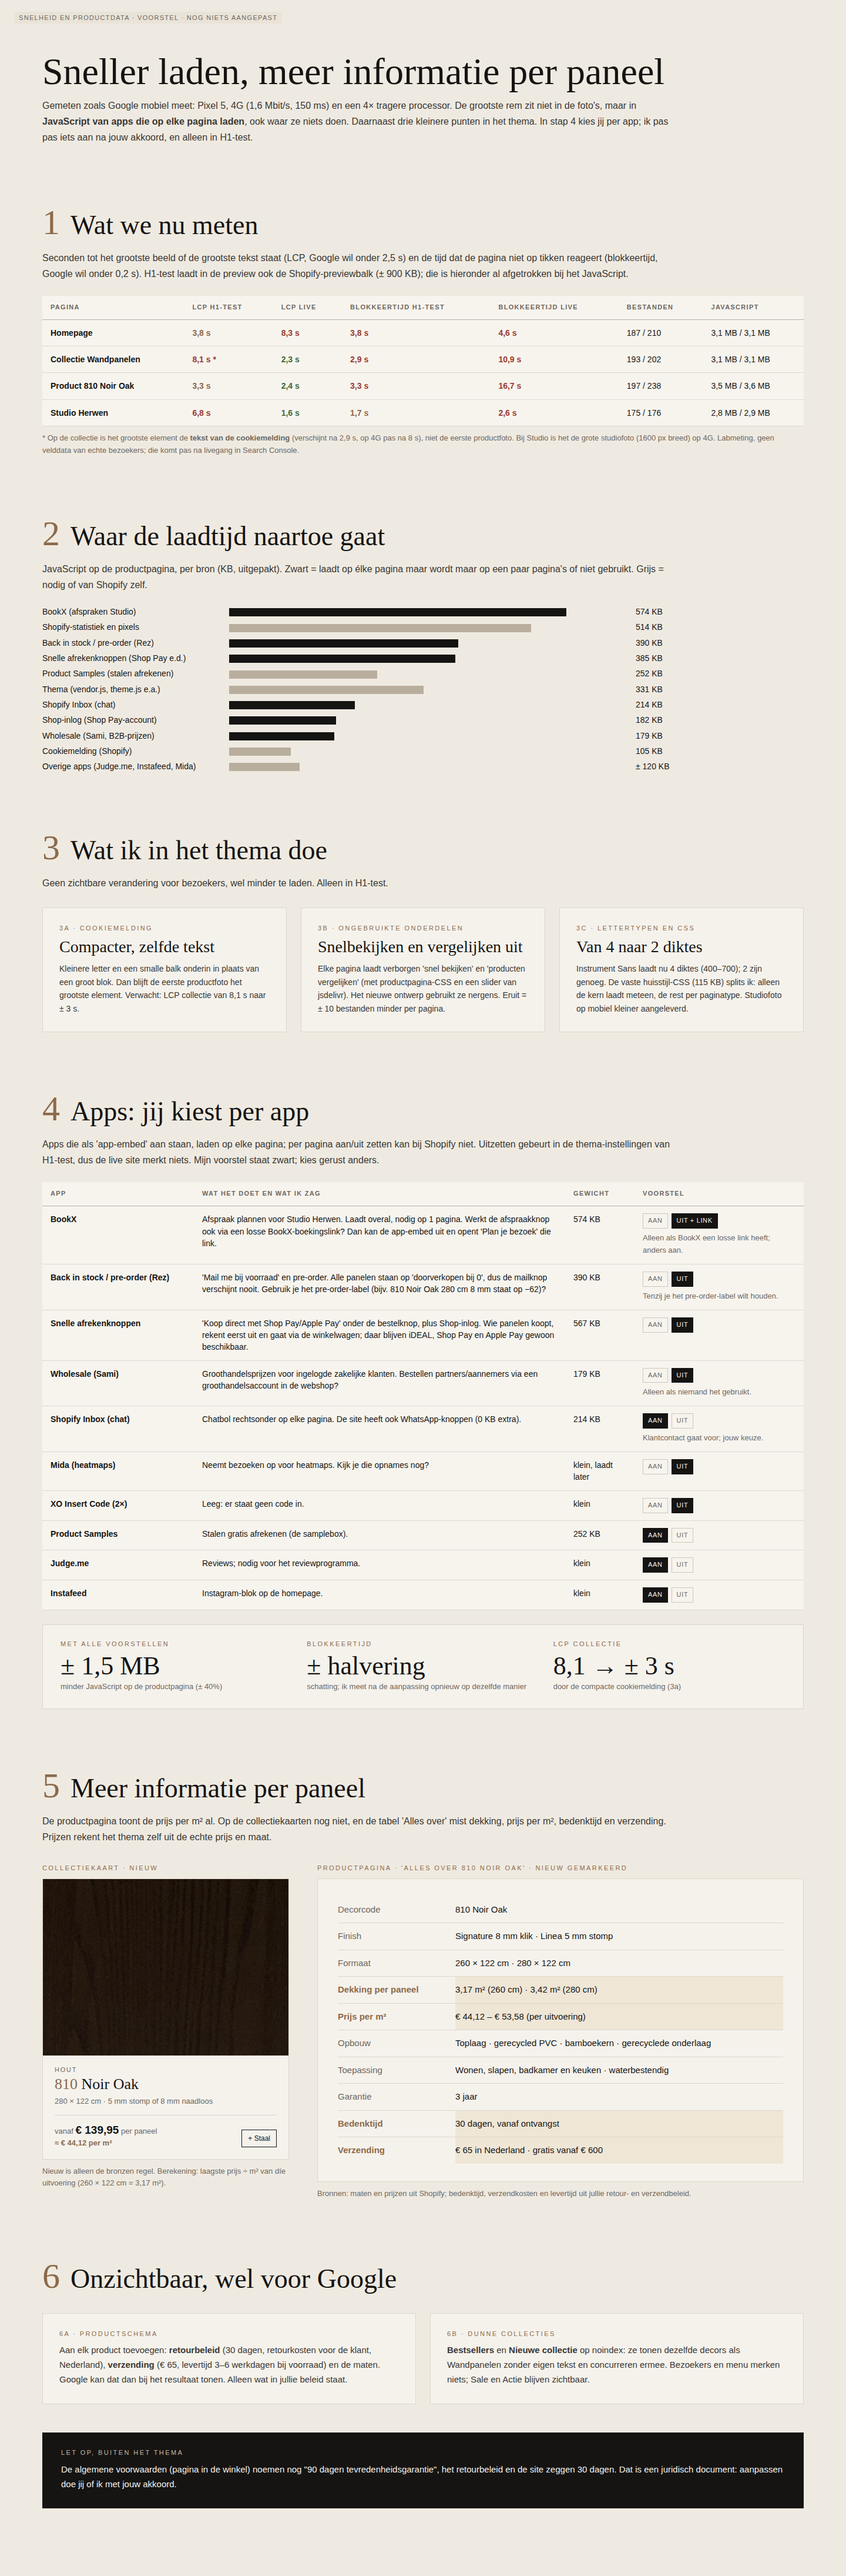
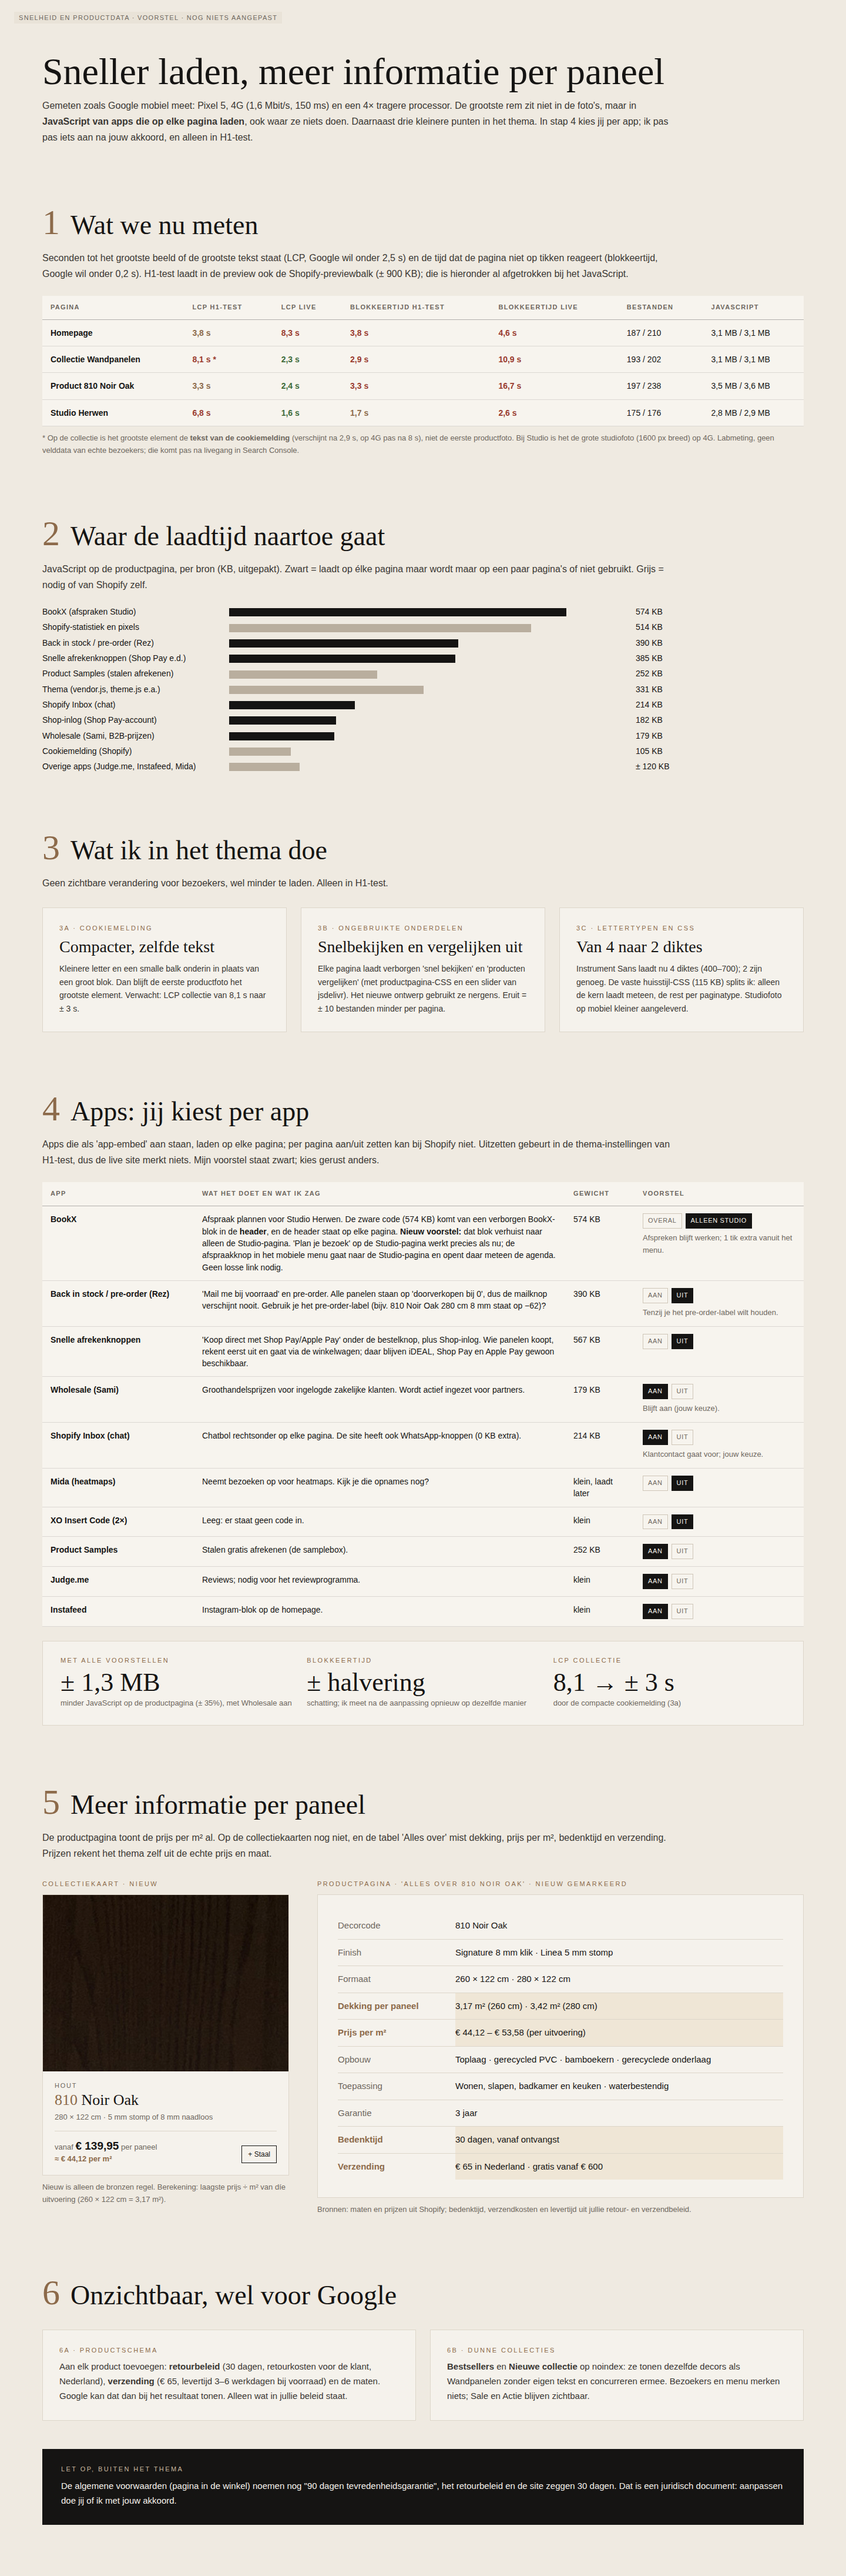
Artboard Snelheid: BookX alleen op Studio-pagina, Wholesale blijft aan
Claude-Session: https://claude.ai/code/session_01Tr9HDAqx5rbsuHBhnEqEEG

diff --git a/docs/ontwerp-puredeco-finish/Snelheid.dc.html b/docs/ontwerp-puredeco-finish/Snelheid.dc.html
@@ -86,10 +86,10 @@ table.t{width:100%;border-collapse:collapse;font-size:14px;line-height:1.45;back
 <table class="t" style="margin-top:24px">
 <thead><tr><th style="width:230px">App</th><th>Wat het doet en wat ik zag</th><th style="width:90px">Gewicht</th><th style="width:260px">Voorstel</th></tr></thead>
 <tbody>
-<tr><th>BookX</th><td>Afspraak plannen voor Studio Herwen. Laadt overal, nodig op 1 pagina. Werkt de afspraakknop ook via een losse BookX-boekingslink? Dan kan de app-embed uit en opent 'Plan je bezoek' die link.</td><td>574 KB</td><td><span class="choice"><span>Aan</span><span class="on">Uit + link</span></span><div class="note" style="margin-top:6px">Alleen als BookX een losse link heeft; anders aan.</div></td></tr>
+<tr><th>BookX</th><td>Afspraak plannen voor Studio Herwen. De zware code (574 KB) komt van een verborgen BookX-blok in de <b>header</b>, en de header staat op elke pagina. <b>Nieuw voorstel:</b> dat blok verhuist naar alleen de Studio-pagina. 'Plan je bezoek' op de Studio-pagina werkt precies als nu; de afspraakknop in het mobiele menu gaat naar de Studio-pagina en opent daar meteen de agenda. Geen losse link nodig.</td><td>574 KB</td><td><span class="choice"><span>Overal</span><span class="on">Alleen Studio</span></span><div class="note" style="margin-top:6px">Afspreken blijft werken; 1 tik extra vanuit het menu.</div></td></tr>
 <tr><th>Back in stock / pre-order (Rez)</th><td>'Mail me bij voorraad' en pre-order. Alle panelen staan op 'doorverkopen bij 0', dus de mailknop verschijnt nooit. Gebruik je het pre-order-label (bijv. 810 Noir Oak 280 cm 8 mm staat op −62)?</td><td>390 KB</td><td><span class="choice"><span>Aan</span><span class="on">Uit</span></span><div class="note" style="margin-top:6px">Tenzij je het pre-order-label wilt houden.</div></td></tr>
 <tr><th>Snelle afrekenknoppen</th><td>'Koop direct met Shop Pay/Apple Pay' onder de bestelknop, plus Shop-inlog. Wie panelen koopt, rekent eerst uit en gaat via de winkelwagen; daar blijven iDEAL, Shop Pay en Apple Pay gewoon beschikbaar.</td><td>567 KB</td><td><span class="choice"><span>Aan</span><span class="on">Uit</span></span></td></tr>
-<tr><th>Wholesale (Sami)</th><td>Groothandelsprijzen voor ingelogde zakelijke klanten. Bestellen partners/aannemers via een groothandelsaccount in de webshop?</td><td>179 KB</td><td><span class="choice"><span>Aan</span><span class="on">Uit</span></span><div class="note" style="margin-top:6px">Alleen als niemand het gebruikt.</div></td></tr>
+<tr><th>Wholesale (Sami)</th><td>Groothandelsprijzen voor ingelogde zakelijke klanten. Wordt actief ingezet voor partners.</td><td>179 KB</td><td><span class="choice"><span class="on">Aan</span><span>Uit</span></span><div class="note" style="margin-top:6px">Blijft aan (jouw keuze).</div></td></tr>
 <tr><th>Shopify Inbox (chat)</th><td>Chatbol rechtsonder op elke pagina. De site heeft ook WhatsApp-knoppen (0 KB extra).</td><td>214 KB</td><td><span class="choice"><span class="on">Aan</span><span>Uit</span></span><div class="note" style="margin-top:6px">Klantcontact gaat voor; jouw keuze.</div></td></tr>
 <tr><th>Mida (heatmaps)</th><td>Neemt bezoeken op voor heatmaps. Kijk je die opnames nog?</td><td>klein, laadt later</td><td><span class="choice"><span>Aan</span><span class="on">Uit</span></span></td></tr>
 <tr><th>XO Insert Code (2×)</th><td>Leeg: er staat geen code in.</td><td>klein</td><td><span class="choice"><span>Aan</span><span class="on">Uit</span></span></td></tr>
@@ -98,7 +98,7 @@ table.t{width:100%;border-collapse:collapse;font-size:14px;line-height:1.45;back
 <tr><th>Instafeed</th><td>Instagram-blok op de homepage.</td><td>klein</td><td><span class="choice"><span class="on">Aan</span><span>Uit</span></span></td></tr>
 </tbody></table>
 <div class="card" style="padding:26px 30px;margin-top:24px;display:grid;grid-template-columns:repeat(3,1fr);gap:24px">
-<div><div class="k">Met alle voorstellen</div><div class="s" style="font-size:44px;margin-top:6px">± 1,5 MB</div><div class="note">minder JavaScript op de productpagina (± 40%)</div></div>
+<div><div class="k">Met alle voorstellen</div><div class="s" style="font-size:44px;margin-top:6px">± 1,3 MB</div><div class="note">minder JavaScript op de productpagina (± 35%), met Wholesale aan</div></div>
 <div><div class="k">Blokkeertijd</div><div class="s" style="font-size:44px;margin-top:6px">± halvering</div><div class="note">schatting; ik meet na de aanpassing opnieuw op dezelfde manier</div></div>
 <div><div class="k">LCP collectie</div><div class="s" style="font-size:44px;margin-top:6px">8,1 → ± 3 s</div><div class="note">door de compacte cookiemelding (3a)</div></div>
 </div>
